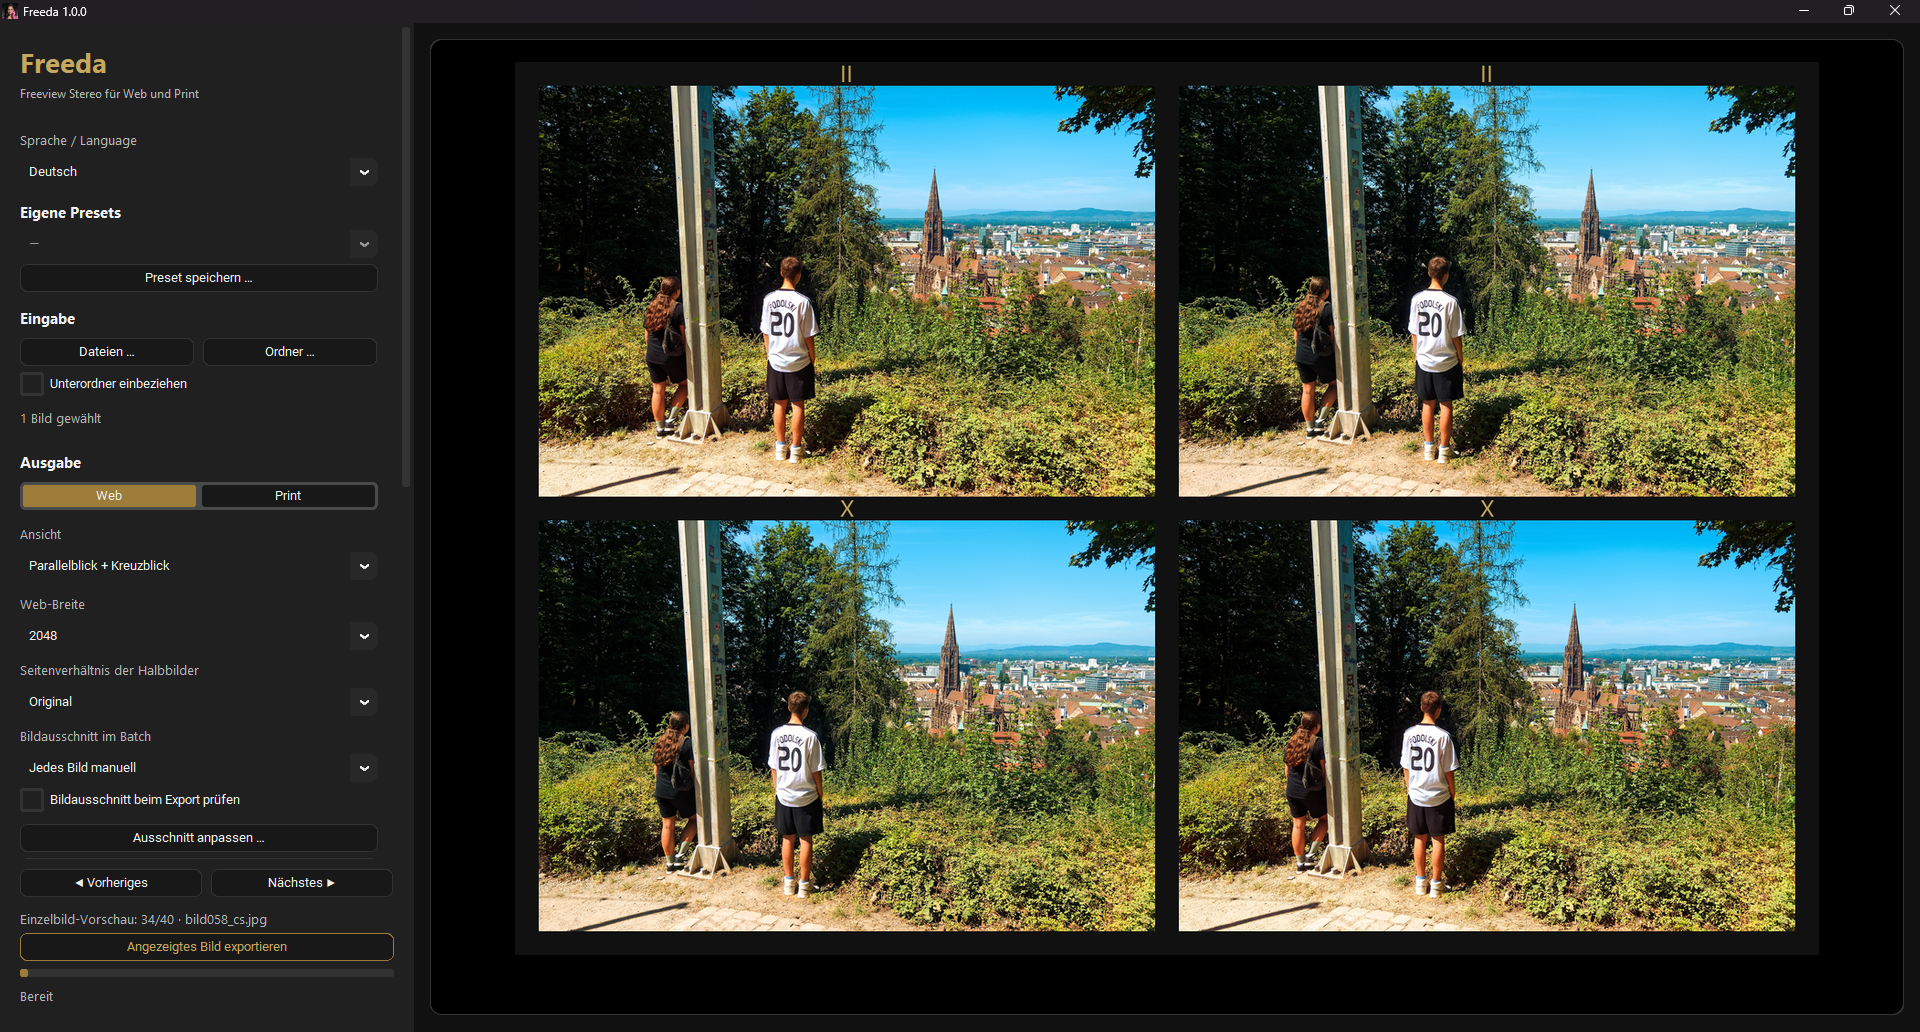
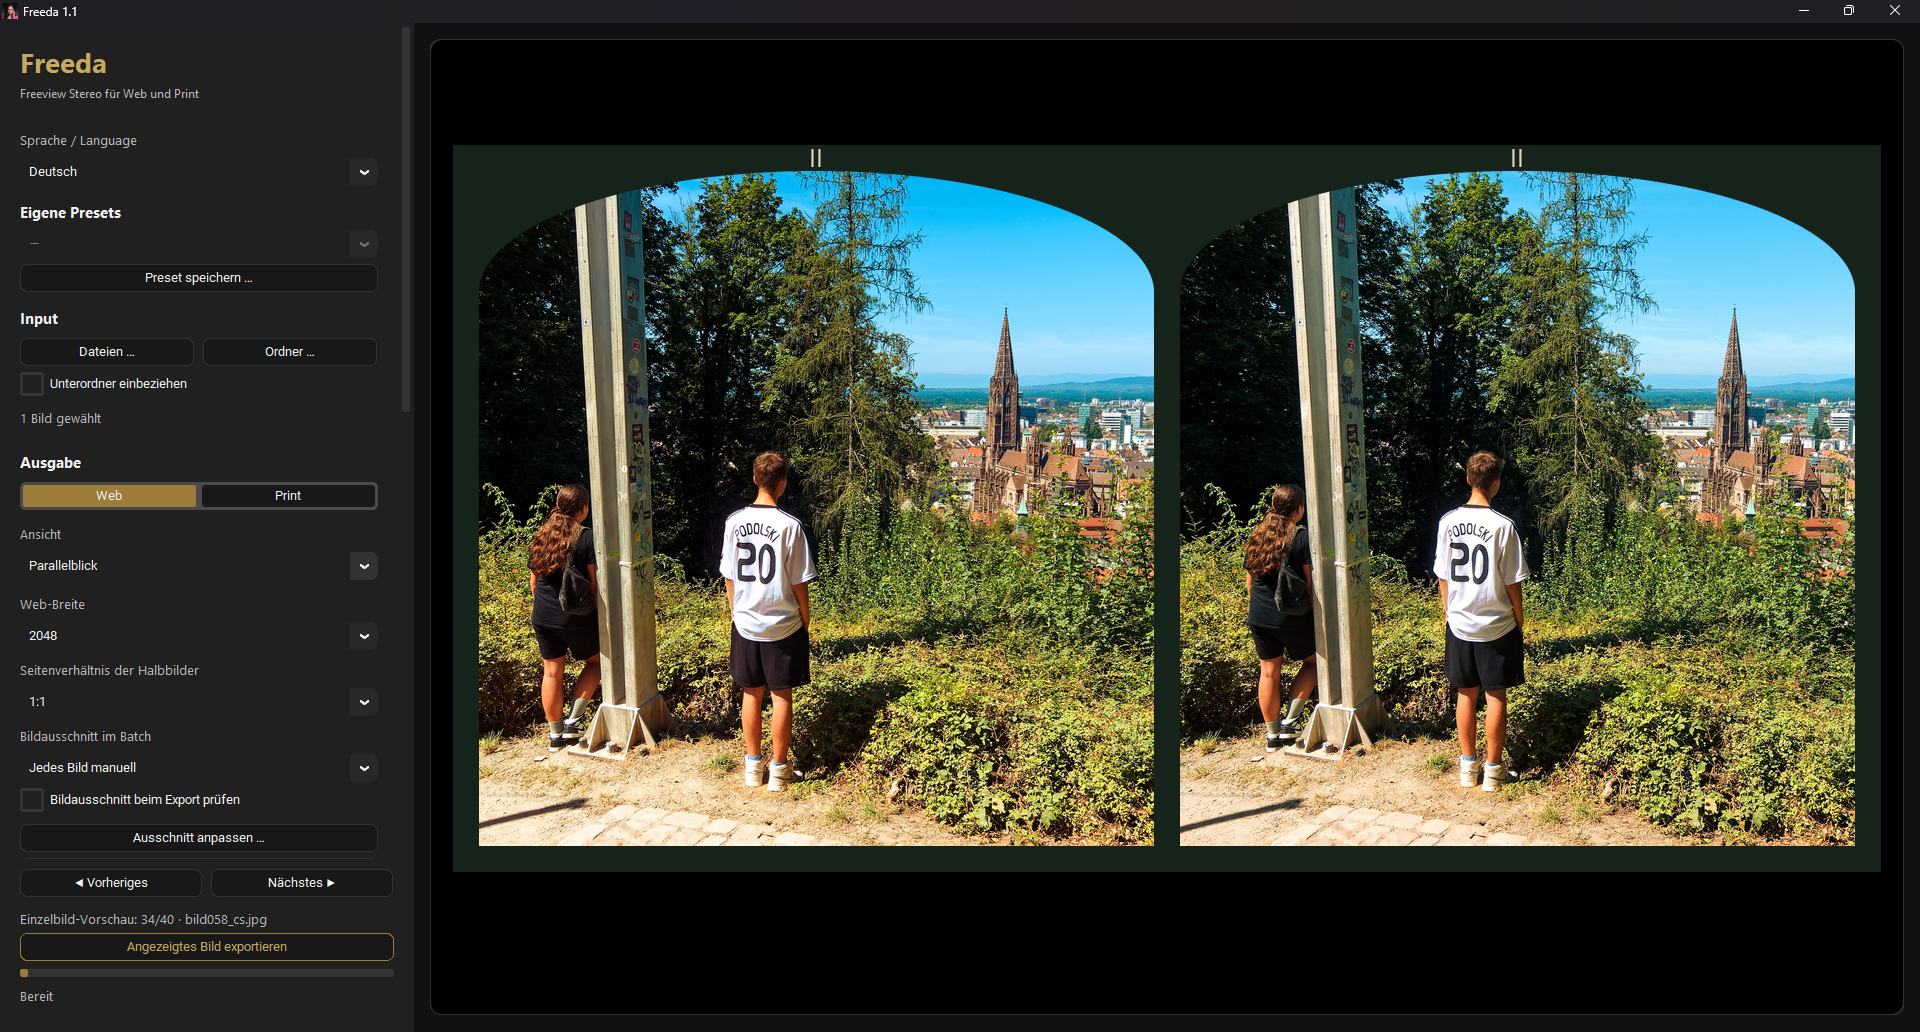
Update original Freeda 1.1 screenshot

diff --git a/README_DE.md b/README_DE.md
@@ -6,7 +6,7 @@ Freeda ist ein lokales Desktop-Werkzeug zum Einrahmen und Exportieren von Full-S
 
 Freeda arbeitet vollständig lokal: kein Konto, keine Cloud, kein Tracking und keine automatischen Downloads während der Nutzung.
 
-![Freeda 1.0](docs/screenshots/Freeda.png)
+![Freeda 1.1](docs/screenshots/Freeda.png)
 
 ## Portable Windows-Version
 

diff --git a/README.md b/README.md
@@ -6,7 +6,7 @@ Freeda is a local desktop tool for framing and exporting full side-by-side stere
 
 Freeda works completely locally: no account, no cloud, no tracking and no automatic downloads during use.
 
-![Freeda 1.0](docs/screenshots/Freeda.png)
+![Freeda 1.1](docs/screenshots/Freeda.png)
 
 ## Portable Windows release
 

diff --git a/README_EN.md b/README_EN.md
@@ -6,7 +6,7 @@ Freeda is a local desktop tool for framing and exporting full side-by-side stere
 
 Freeda works completely locally: no account, no cloud, no tracking and no automatic downloads during use.
 
-![Freeda 1.0](docs/screenshots/Freeda.png)
+![Freeda 1.1](docs/screenshots/Freeda.png)
 
 ## Portable Windows release
 
